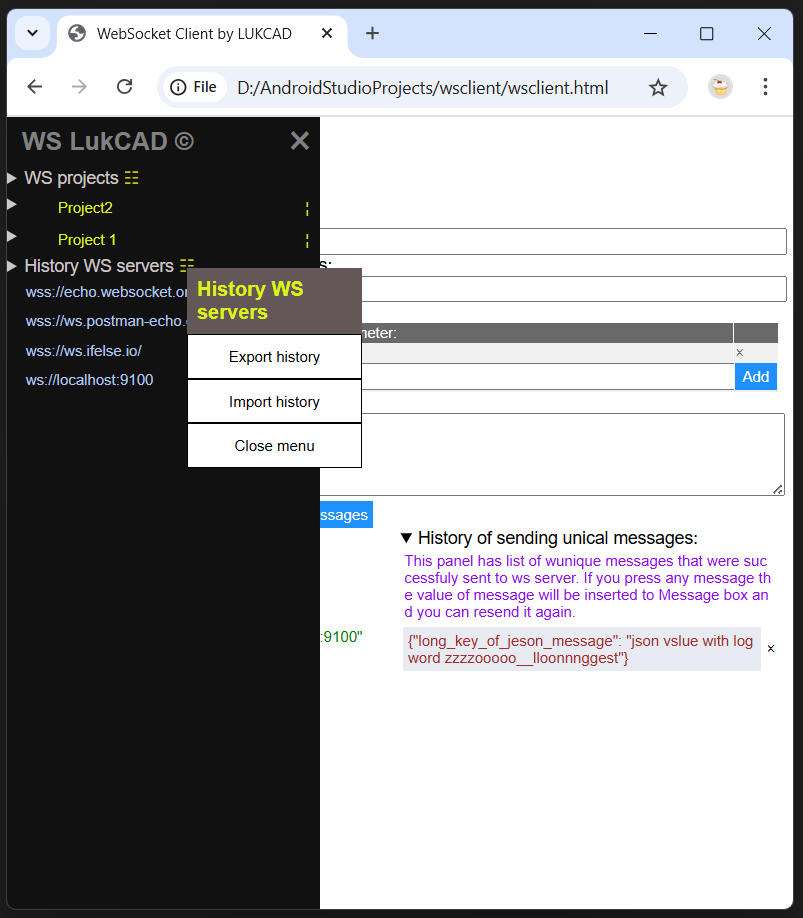
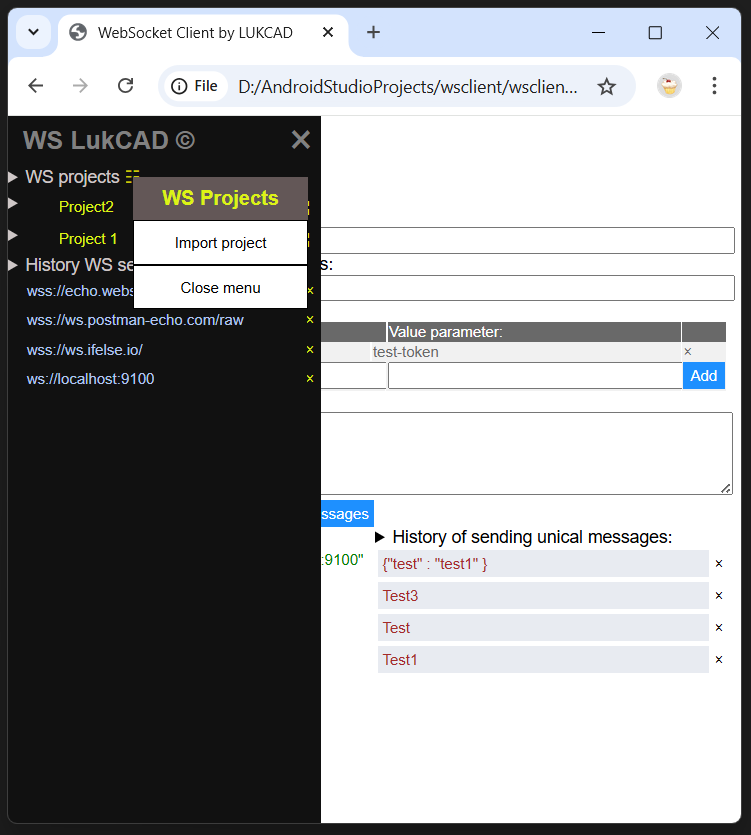
version 1.0.31

Changed region(s): [[0.0, 0.0, 1.0, 0.9964]]

diff --git a/wsclient.html b/wsclient.html
@@ -611,7 +611,7 @@
             <div style="cursor:pointer;white-space: nowrap" onclick="openNav()">
                 <h4>&#9776; WebSocket Client</h4>
             </div>
-            <div id="release" title="About program">v1.0.30</div>
+            <div id="release" title="About program">v1.0.31</div>
             <div id="newrelease" title="About new release"></div>
         </div>
 

diff --git a/README.md b/README.md
@@ -57,16 +57,18 @@
   - Group `WS Projects`
 
     - You can `add new project` with by executing sending request when `Project name` is filled in or `enrich existing project`.
+    - You can `re-name project` together with relevant ws servers and history using context menu by right button or icon &nbsp;&brvbar;&nbsp; and then by choosing `Re-name project`.
     - You can `remove project` together with relevant ws servers and history using context menu by right button or icon &nbsp;&brvbar;&nbsp; and then by choosing `Remove project`.
     - You can `ws-server remove from project` if you expand list servers and press icon &times; against name of server.
-    - if you have to `import new project` or `enrich existing project` from your local machine you can do it by context menu pressing right button on name group `WS projects` and press `Import project/history`. Also you can open context menu to execute this operation by using icon &#9783;.
-    - if you have to `export project` you can press the name of project by right button to start context menu where you can choose `Export project` item.
+    - if you have to `import new project` or `enrich existing project` from your local file you can do it by context menu pressing right button on name group `WS projects` and press `Import project`. Also you can open context menu to execute this operation by using icon &#9783;.
+    - if you have to `export project` using context menu by right button or icon &nbsp;&brvbar;&nbsp; and then by choosing `Export project`.
 
   - Group `History WS servers`
 
     - You can `add new ws-server` here when send successful message with empty `Project name`.
     - You can `remove` any `ws server` using icon &times;
-    - you can `export history ws-servers` by pressing righ button on `History WS servers` and choosing from context menu `Export history` item. Also you can open context menu to execute this operation by using icon &#9783;.
+    - You can `import history ws-servers` from local file by pressing pressing righ button on `History WS servers` and choosing from context menu `Import history` item. Also you can open context menu to execute this operation by using icon &#9783;.
+    - you can `export history ws-servers` to local file by pressing righ button on `History WS servers` and choosing from context menu `Export history` item. Also you can open context menu to execute this operation by using icon &#9783;.
 
 ### General Notices
 
@@ -107,3 +109,5 @@ Notices:
 ![alt text](image-2.png)
 ![alt text](image-3.png)
 ![alt text](image-4.png)
+![alt text](image-5.png)
+![alt text](image-6.png)
